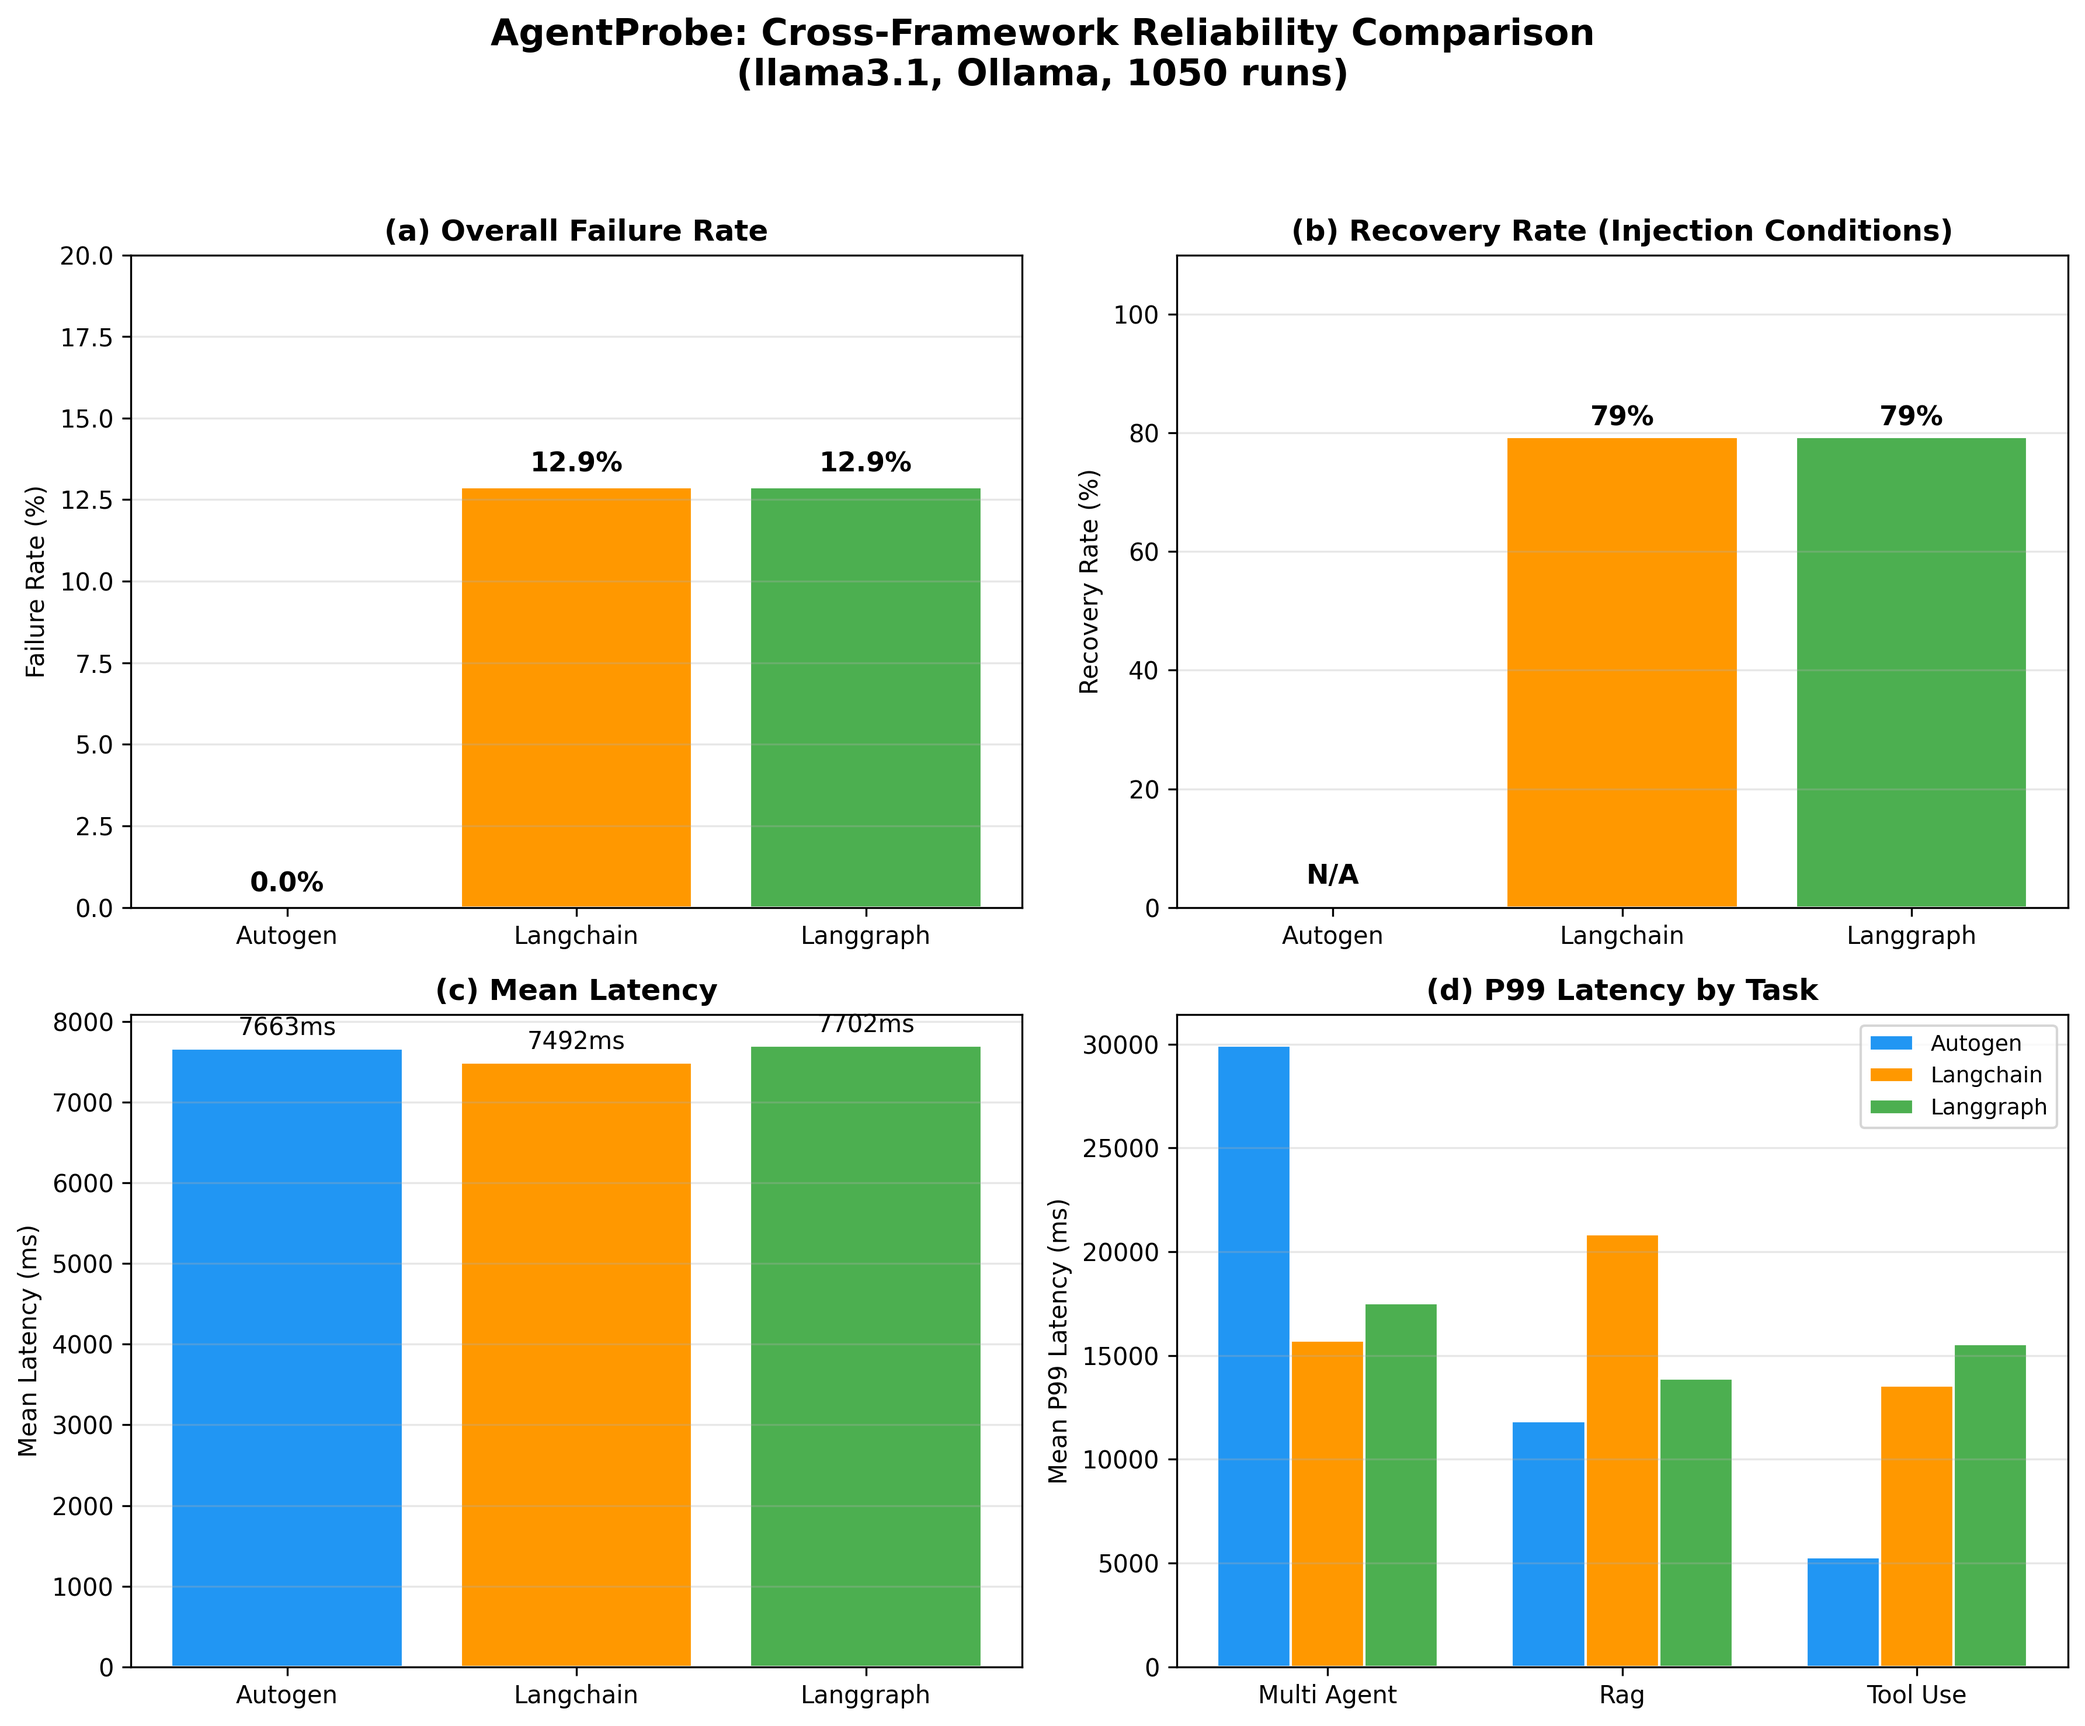
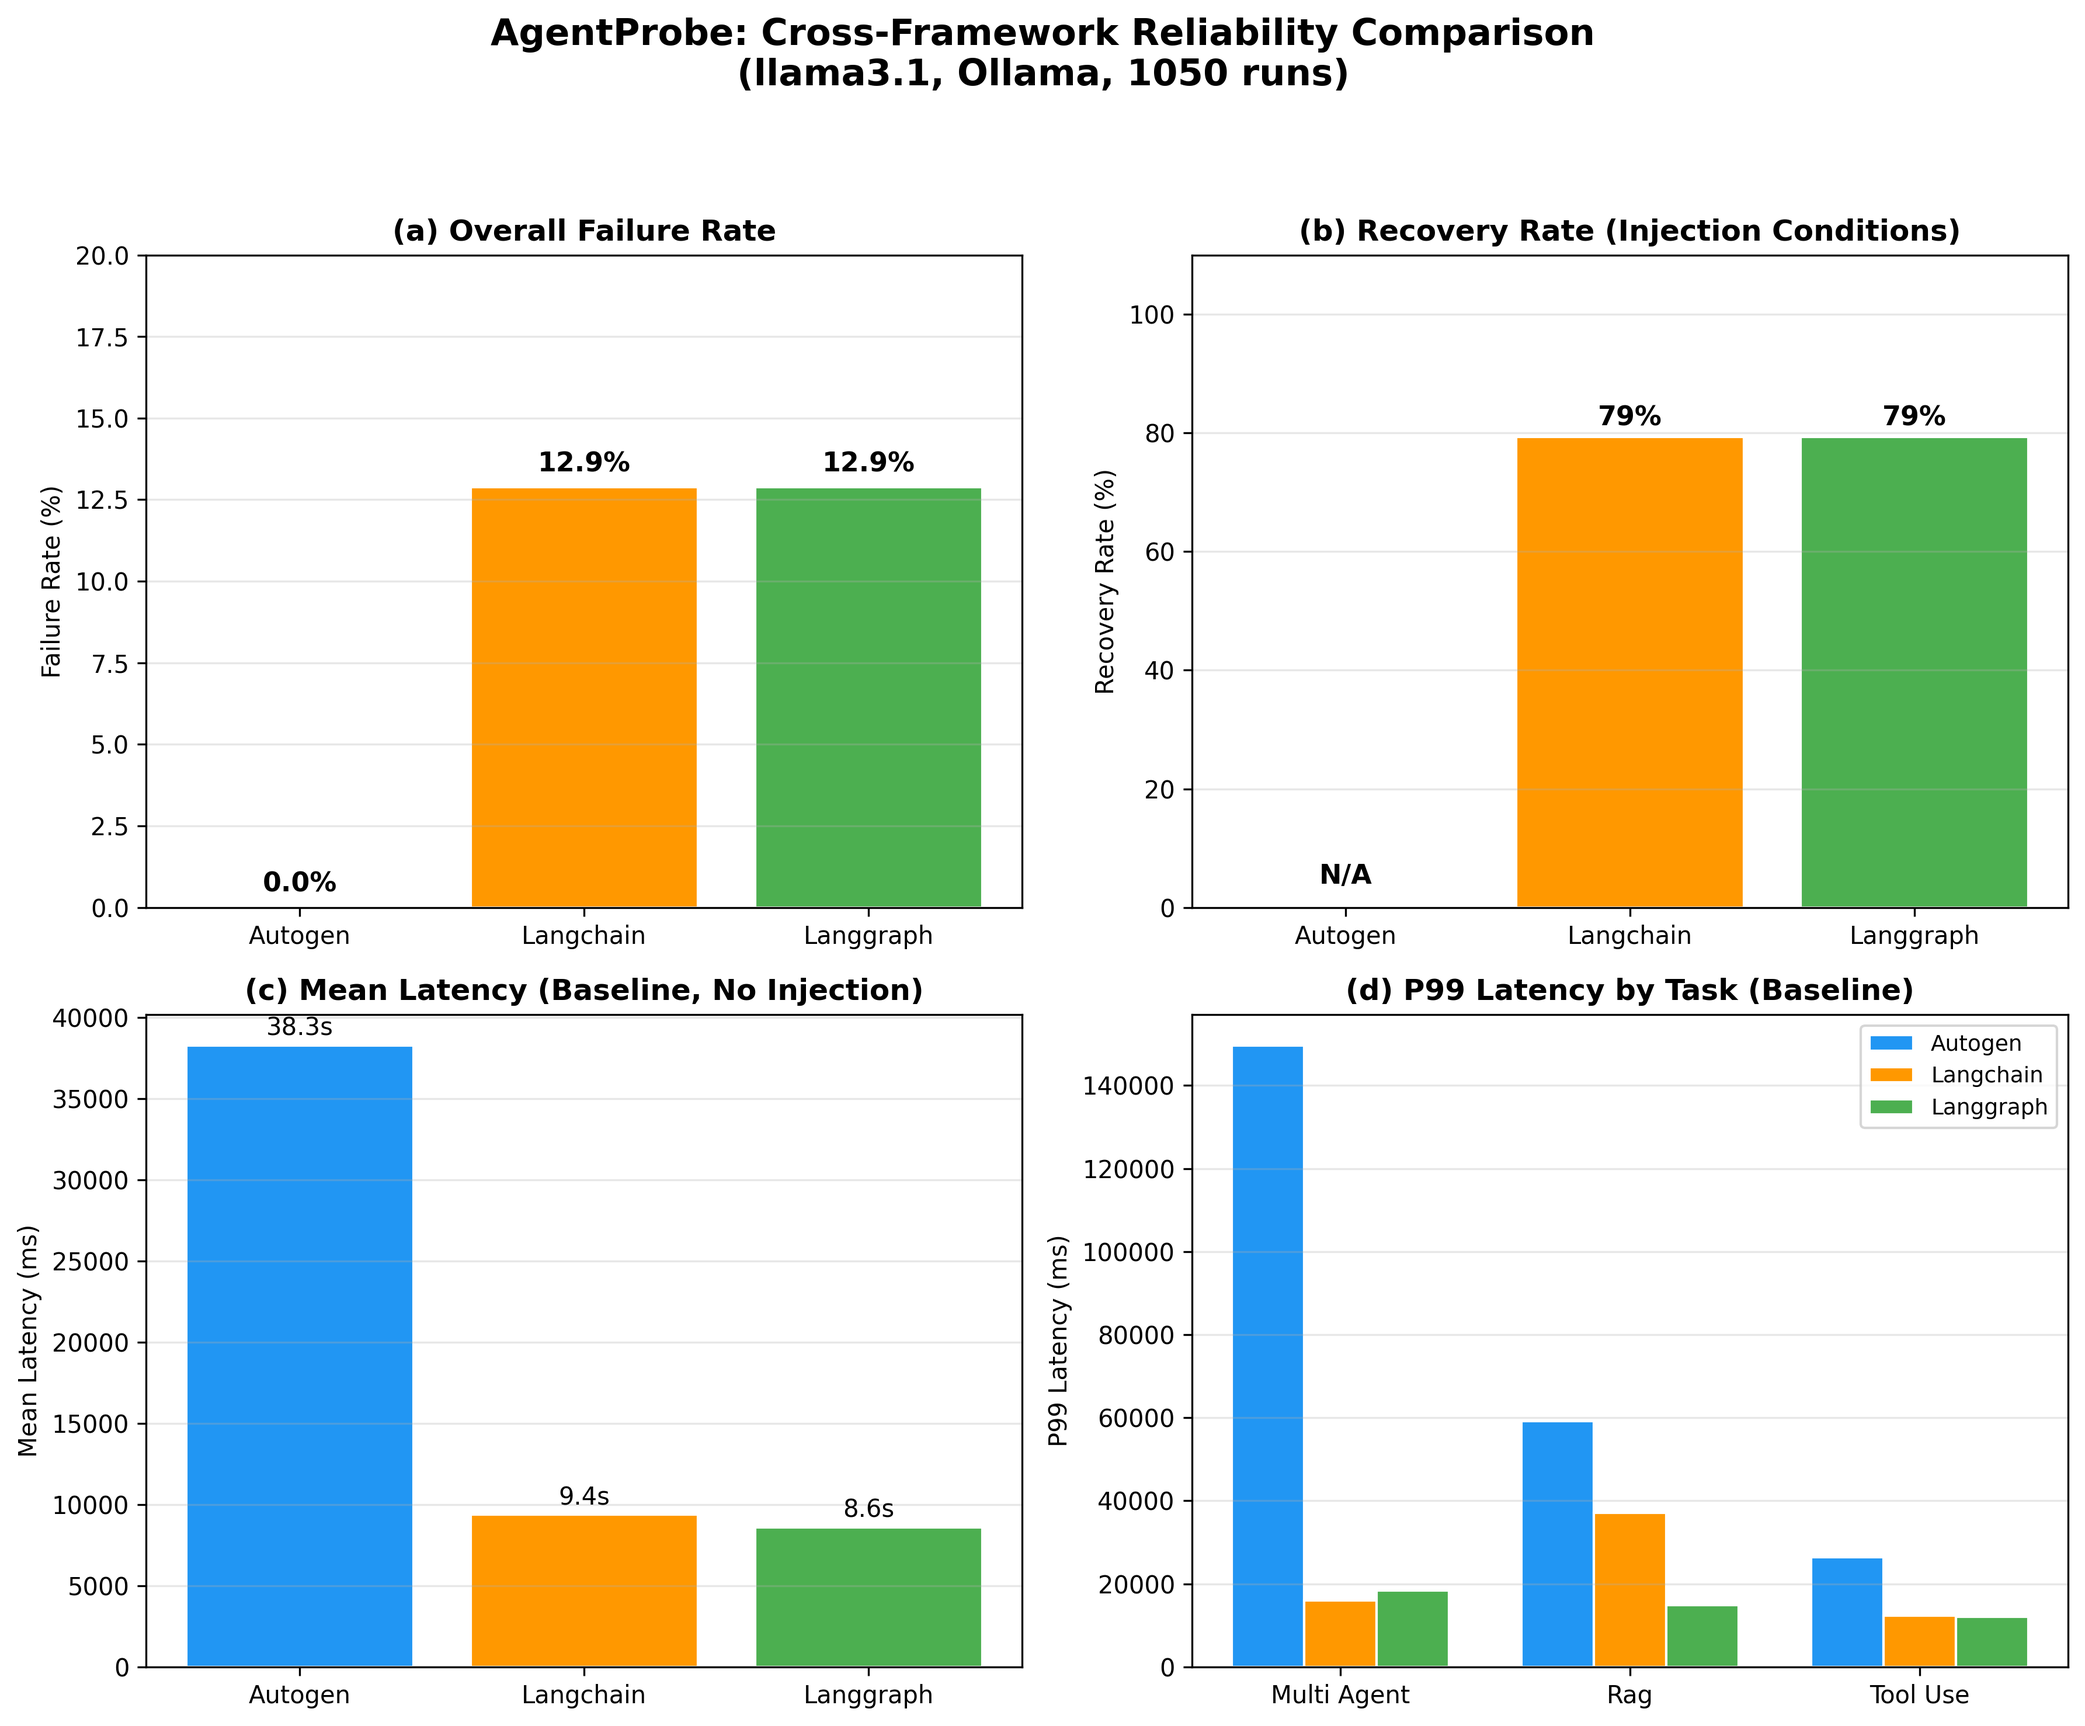
Fix summary dashboard to use baseline-only latency data
AutoGen's near-zero latency under injection (6-27ms) reflects tool
bypass, not real inference. Panels (c) and (d) now filter to
failure_type=="none" so latency comparisons reflect actual LLM
inference overhead. Paper text updated accordingly.

diff --git a/paper/main.tex b/paper/main.tex
@@ -211,7 +211,7 @@ Consistency   & non\_deterministic                              & 1 & classifier
 \begin{figure}[htbp]
   \centering
   \includegraphics[width=\textwidth]{../experiments/plots/summary_dashboard.png}
-  \caption{Summary dashboard showing cross-framework reliability comparison: (a)~overall failure rate, (b)~recovery rate under injection conditions, (c)~mean latency, and (d)~P99 latency by task type. Based on 1{,}050 runs across LangGraph, LangChain, and AutoGen with Llama~3.1 via Ollama.}\label{fig:architecture}
+  \caption{Summary dashboard showing cross-framework reliability comparison: (a)~overall failure rate, (b)~recovery rate under injection conditions, (c)~mean baseline latency (no injection), and (d)~P99 baseline latency by task type. Panels (c) and (d) use baseline-only data to avoid conflating real LLM inference latency with AutoGen's near-zero injection latency caused by tool bypass. Based on 1{,}050 runs across LangGraph, LangChain, and AutoGen with Llama~3.1 via Ollama.}\label{fig:architecture}
 \end{figure}
 
 \subsection{Fault Injection Layer}
@@ -388,7 +388,7 @@ For LangGraph and LangChain, recovery rates differ by failure type. Rate limit a
   \caption{P99 latency distribution across frameworks. The omnibus Kruskal--Wallis test indicates a significant difference ($H = 11.65$, $p = 0.003$), driven by AutoGen's high variance in baseline conditions.}\label{fig:latency}
 \end{figure}
 
-Mean latency is comparable across frameworks (AutoGen: 7{,}663\,ms, LangChain: 7{,}492\,ms, LangGraph: 7{,}702\,ms), but the omnibus Kruskal--Wallis test reveals a significant difference in latency distributions ($H = 11.65$, $p = 0.003$). This is driven primarily by AutoGen's bimodal latency profile: near-zero P99 under injection conditions (where tool bypass produces fast but ungrounded responses) versus very high P99 under baseline conditions (149\,s for multi-agent tasks, where the conversation protocol incurs overhead without tool execution to anchor the interaction).
+Under baseline conditions (no injection), latency differs substantially across frameworks. LangGraph and LangChain exhibit similar mean latencies (8.6\,s and 9.4\,s respectively), while AutoGen is significantly slower (38.3\,s mean), with P99 reaching 149\,s for multi-agent tasks. The omnibus Kruskal--Wallis test confirms a significant difference in latency distributions ($H = 11.65$, $p = 0.003$). AutoGen's conversation-based protocol incurs substantial overhead for real LLM inference. Under injection conditions, AutoGen exhibits near-zero latency (6--27\,ms) because the agent bypasses tool execution entirely, producing fast but ungrounded responses---a further manifestation of the silent failure phenomenon.
 
 \subsection{Summary of Statistical Comparisons}
 

diff --git a/experiments/generate_plots.py b/experiments/generate_plots.py
@@ -251,11 +251,12 @@ def plot_summary_dashboard(results: list[dict]) -> None:
     ax.set_ylim(0, 110)
     ax.grid(axis="y", alpha=0.3)
 
-    # Panel 3: Mean latency
+    # Panel 3: Mean latency (baseline only — injection latency is not comparable
+    # for AutoGen because it short-circuits without LLM inference)
     ax = axes[1, 0]
     mean_latencies = []
     for fw in frameworks:
-        matching = [r for r in results if r["framework"] == fw and r["mean_latency_ms"] > 0]
+        matching = [r for r in results if r["framework"] == fw and r["failure_type"] == "none"]
         if matching:
             mean_latencies.append(np.mean([r["mean_latency_ms"] for r in matching]))
         else:
@@ -265,13 +266,13 @@ def plot_summary_dashboard(results: list[dict]) -> None:
                   color=colors_list[:len(frameworks)], edgecolor="white")
     for bar in bars:
         h = bar.get_height()
-        ax.text(bar.get_x() + bar.get_width() / 2., h + 100,
-                f"{h:.0f}ms", ha="center", va="bottom", fontsize=10)
+        ax.text(bar.get_x() + bar.get_width() / 2., h + 300,
+                f"{h/1000:.1f}s", ha="center", va="bottom", fontsize=10)
     ax.set_ylabel("Mean Latency (ms)")
-    ax.set_title("(c) Mean Latency", fontweight="bold")
+    ax.set_title("(c) Mean Latency (Baseline, No Injection)", fontweight="bold")
     ax.grid(axis="y", alpha=0.3)
 
-    # Panel 4: P99 latency by task
+    # Panel 4: P99 latency by task (baseline only)
     ax = axes[1, 1]
     tasks = sorted(set(r["task"] for r in results))
     x = np.arange(len(tasks))
@@ -279,15 +280,15 @@ def plot_summary_dashboard(results: list[dict]) -> None:
     for i, fw in enumerate(frameworks):
         p99s = []
         for task in tasks:
-            matching = [r for r in results if r["framework"] == fw and r["task"] == task and r["p99_latency_ms"] > 0]
+            matching = [r for r in results if r["framework"] == fw and r["task"] == task and r["failure_type"] == "none"]
             if matching:
                 p99s.append(np.mean([r["p99_latency_ms"] for r in matching]))
             else:
                 p99s.append(0)
         ax.bar(x + i * width, p99s, width, label=fw.capitalize(),
                color=colors_list[i], edgecolor="white")
-    ax.set_ylabel("Mean P99 Latency (ms)")
-    ax.set_title("(d) P99 Latency by Task", fontweight="bold")
+    ax.set_ylabel("P99 Latency (ms)")
+    ax.set_title("(d) P99 Latency by Task (Baseline)", fontweight="bold")
     ax.set_xticks(x + width)
     ax.set_xticklabels([t.replace("_", " ").title() for t in tasks])
     ax.legend(fontsize=9)
